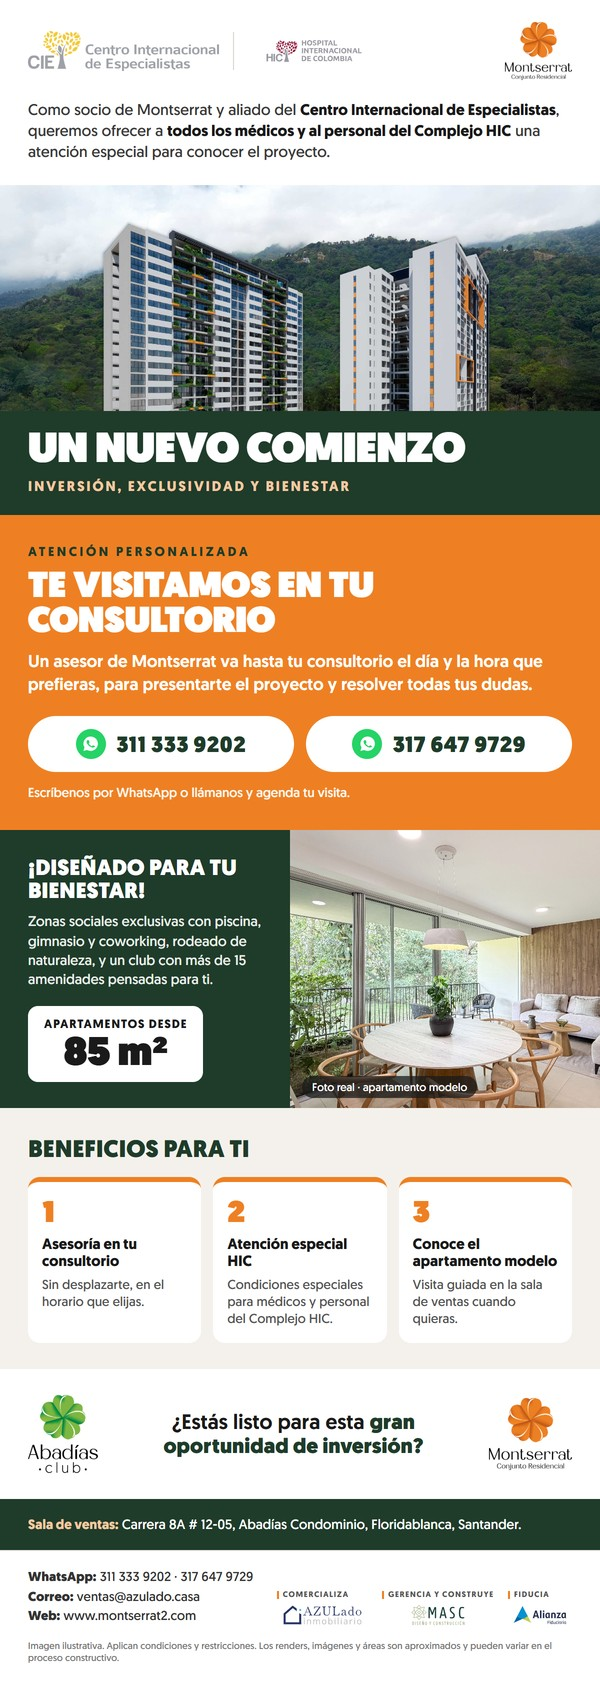
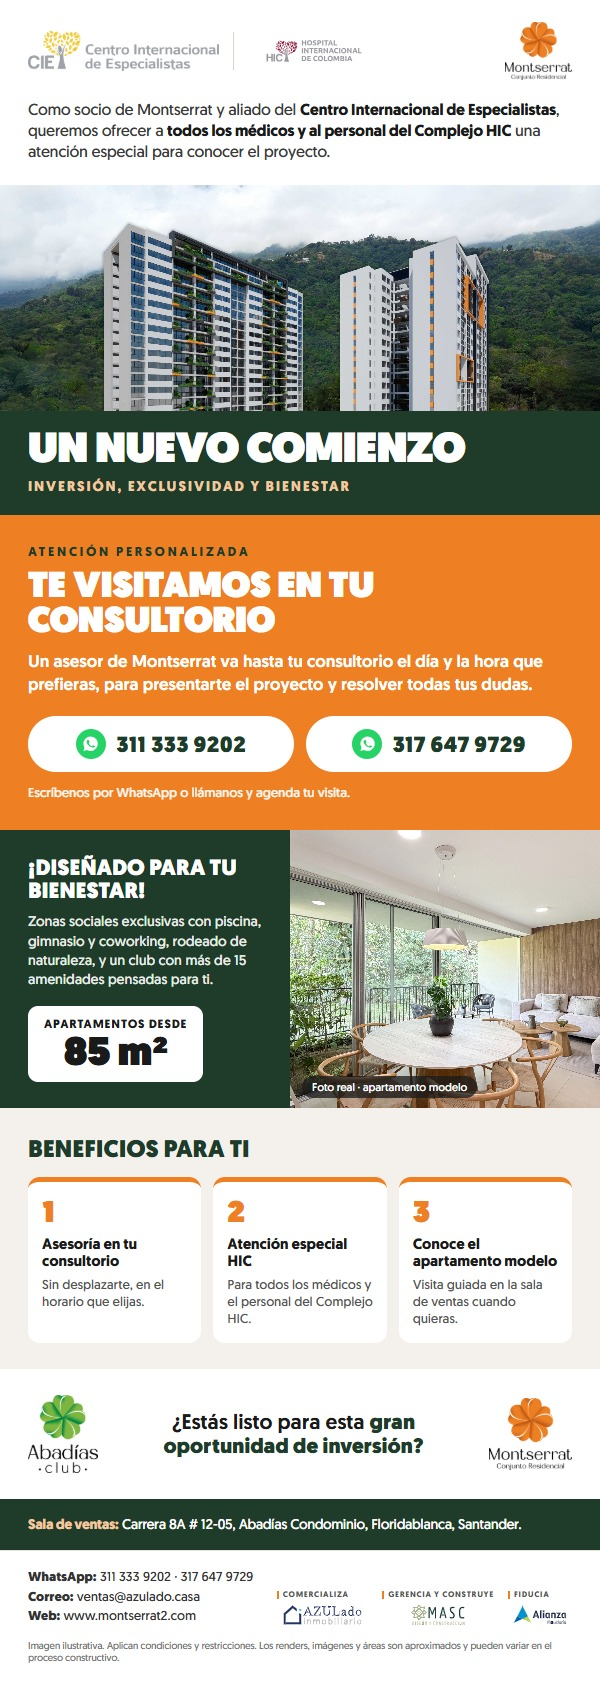
Mailing CIE: atención especial sin prometer condiciones

diff --git a/montserratpiezas/index.html b/montserratpiezas/index.html
@@ -54,9 +54,9 @@ a:focus-visible{outline:3px solid #fff;outline-offset:2px}
 <li>Se quitó la invitación al evento del 16 de octubre, que ya pasó.</li>
 </ul>
 <p>Formato de correo: 600 px de ancho. Va como imagen, igual que el mailing anterior.</p>
-<a class="bt" href="img/Mailing_CIE_600px@2x.jpg" download>Descargar mailing (alta)</a>
+<a class="bt" href="img/Mailing_CIE_600px@2x.jpg?v=2" download>Descargar mailing (alta)</a>
 </div>
-<img src="img/Mailing_CIE_600px@2x.jpg" alt="Mailing Montserrat: logos CIE y HIC, Un nuevo comienzo, Te visitamos en tu consultorio con los dos teléfonos, Diseñado para tu bienestar, beneficios, Abadías Club y marcas" width="1200" height="3366" loading="lazy">
+<img src="img/Mailing_CIE_600px@2x.jpg?v=2" alt="Mailing Montserrat: logos CIE y HIC, Un nuevo comienzo, Te visitamos en tu consultorio con los dos teléfonos, Diseñado para tu bienestar, beneficios, Abadías Club y marcas" width="1200" height="3366" loading="lazy">
 </div>
 </div>
 </body></html>
